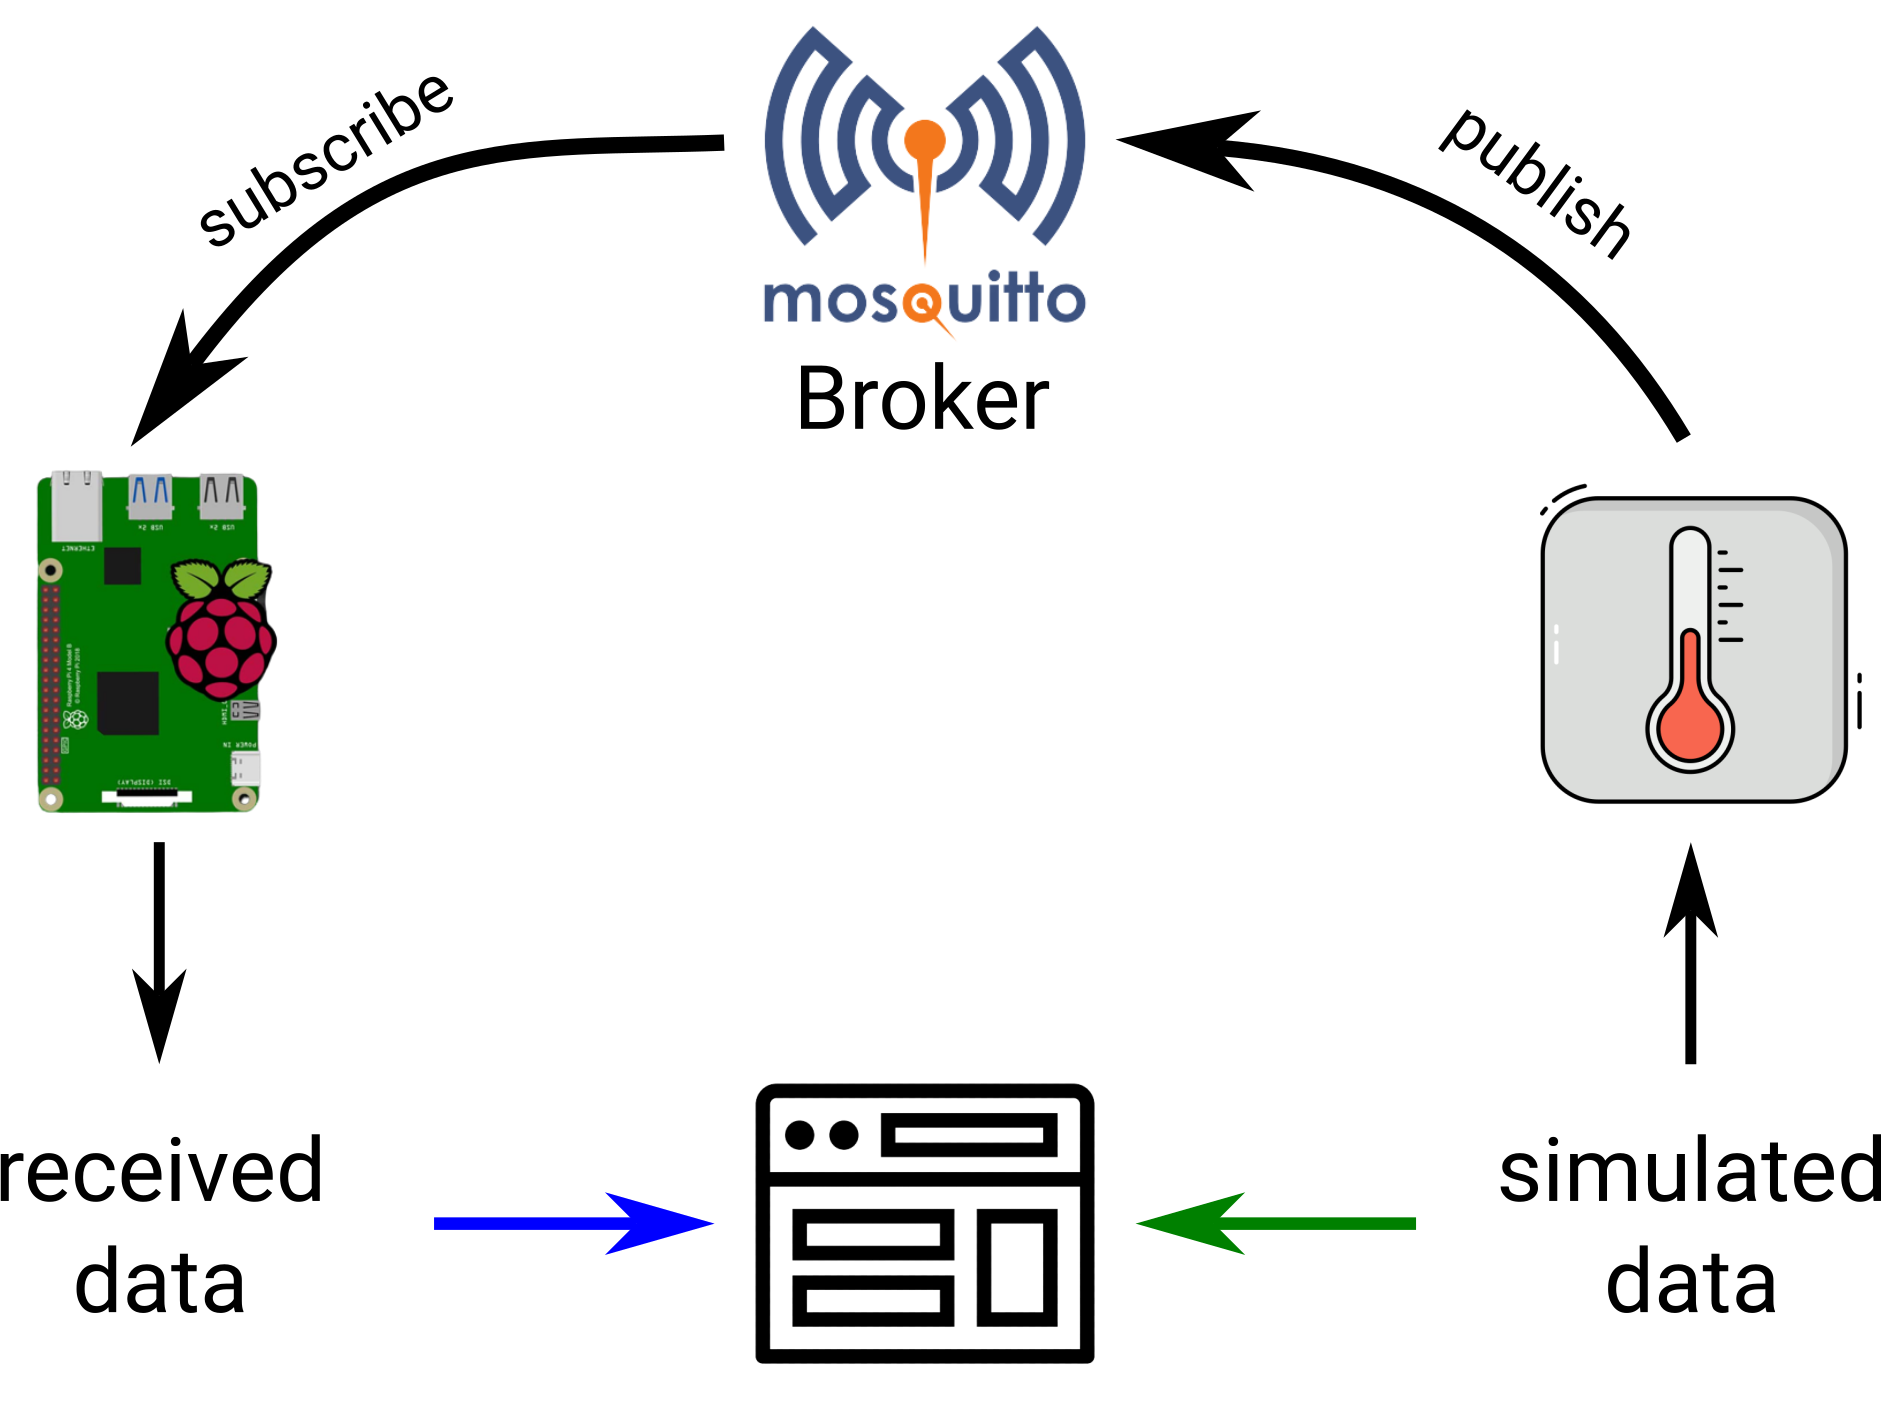
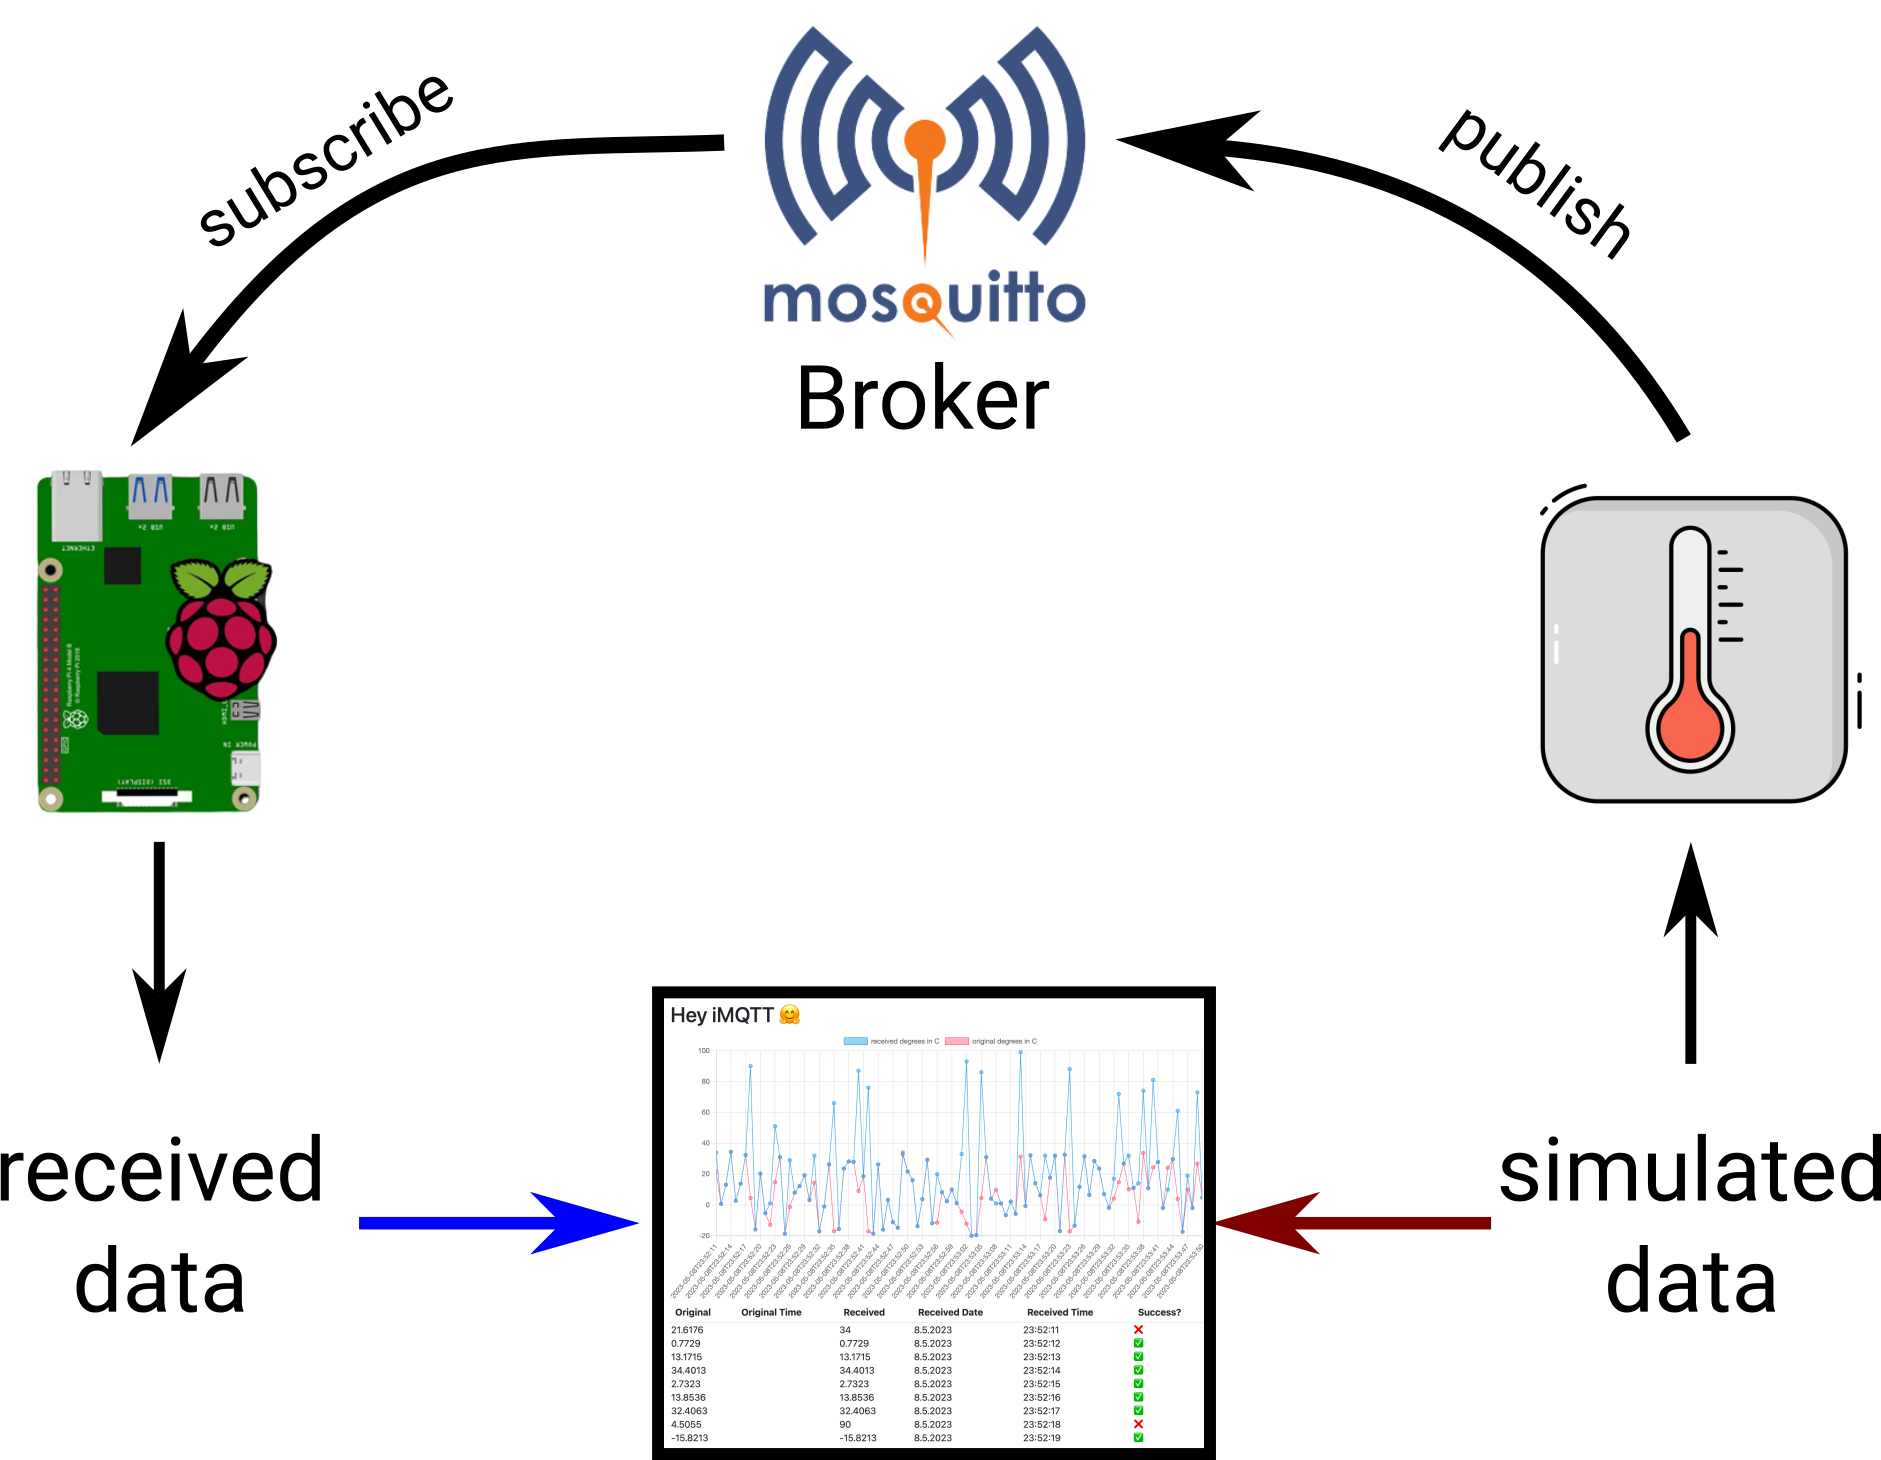
Add outlook and last slide

diff --git a/index.html b/index.html
@@ -4,7 +4,7 @@
 		<meta charset="utf-8">
 		<meta name="viewport" content="width=device-width, initial-scale=1.0, maximum-scale=1.0, user-scalable=no">
 
-		<title>reveal.js</title>
+		<title>MQTT Test Environment</title>
 
 		<link rel="stylesheet" href="dist/reset.css">
 		<link rel="stylesheet" href="dist/reveal.css">
@@ -57,6 +57,18 @@
 
                 <section>
                     <h2>Outlook</h2>
+                    <ul>
+                        <li>Setup for multiple clients</li>
+                        <li>Crash simulation and error handling</li>
+                        <li>Reaction to sensor failure</li>
+                        <li>Control test environment from front-end</li>
+                    </ul>
+                </section>
+
+                <section>
+                    <a>
+                        <img src="./pics/report.png" alt="report website" style="height: 80vh; width: 80vw;">
+                    </a>
                 </section>
 			</div>
 		</div>
